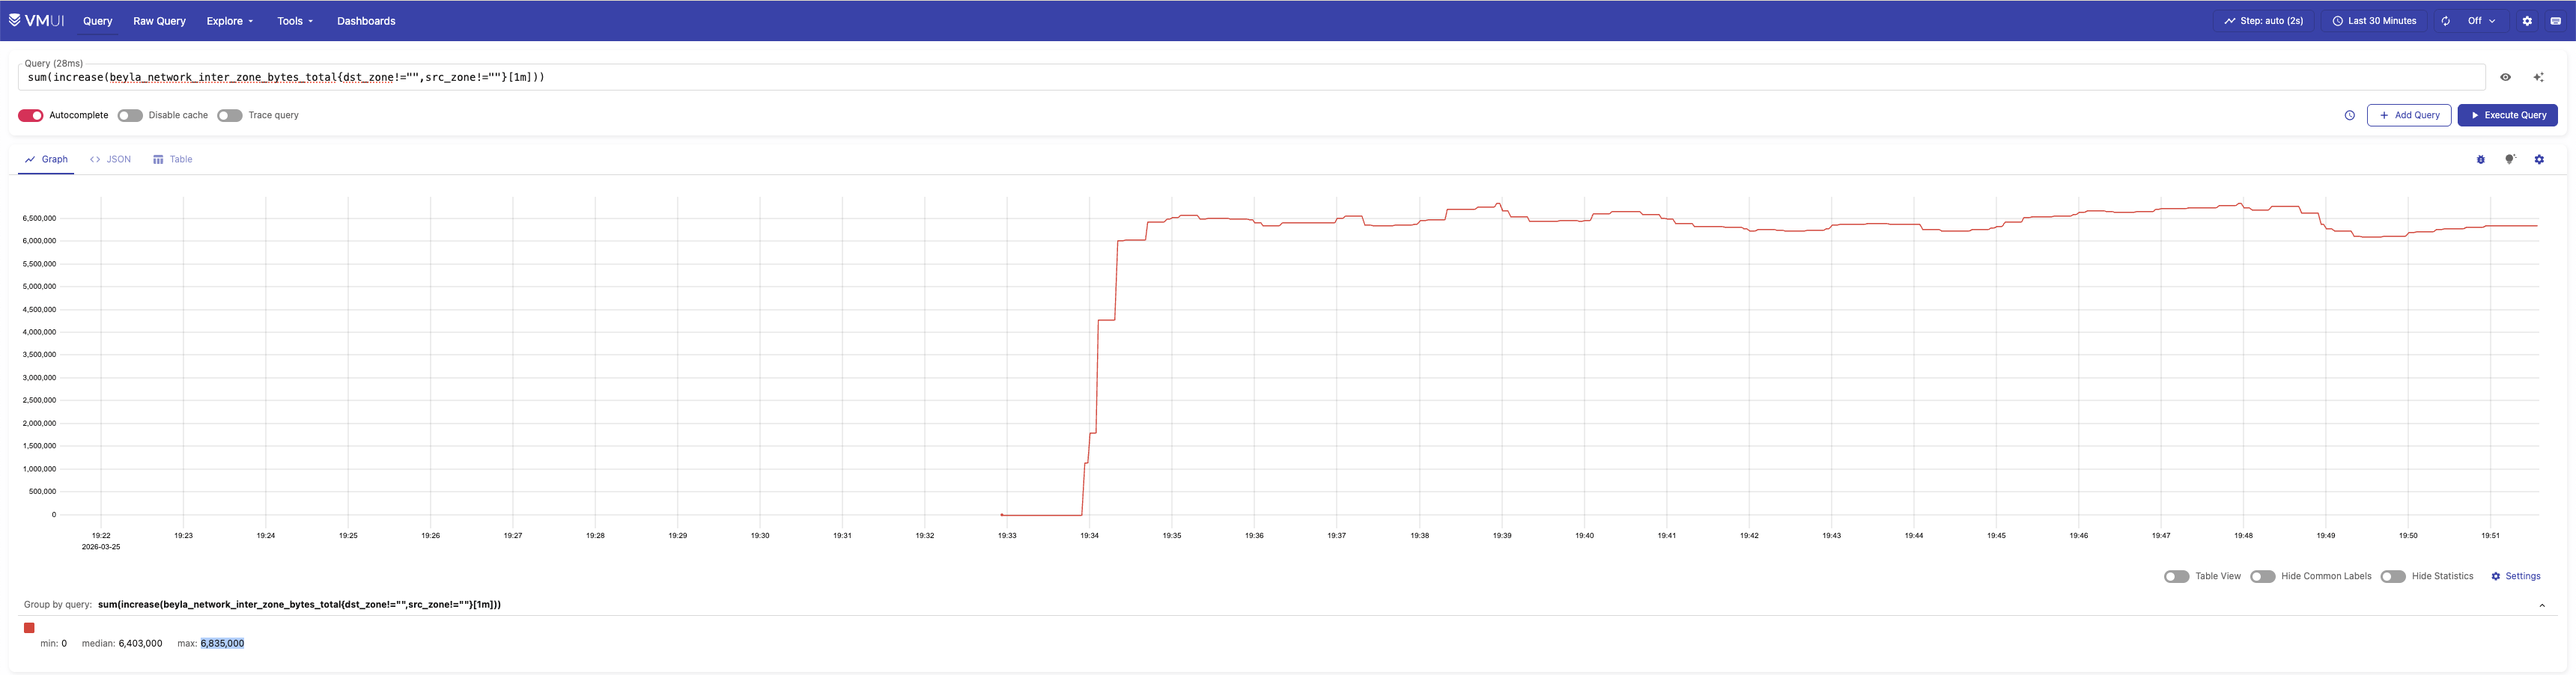
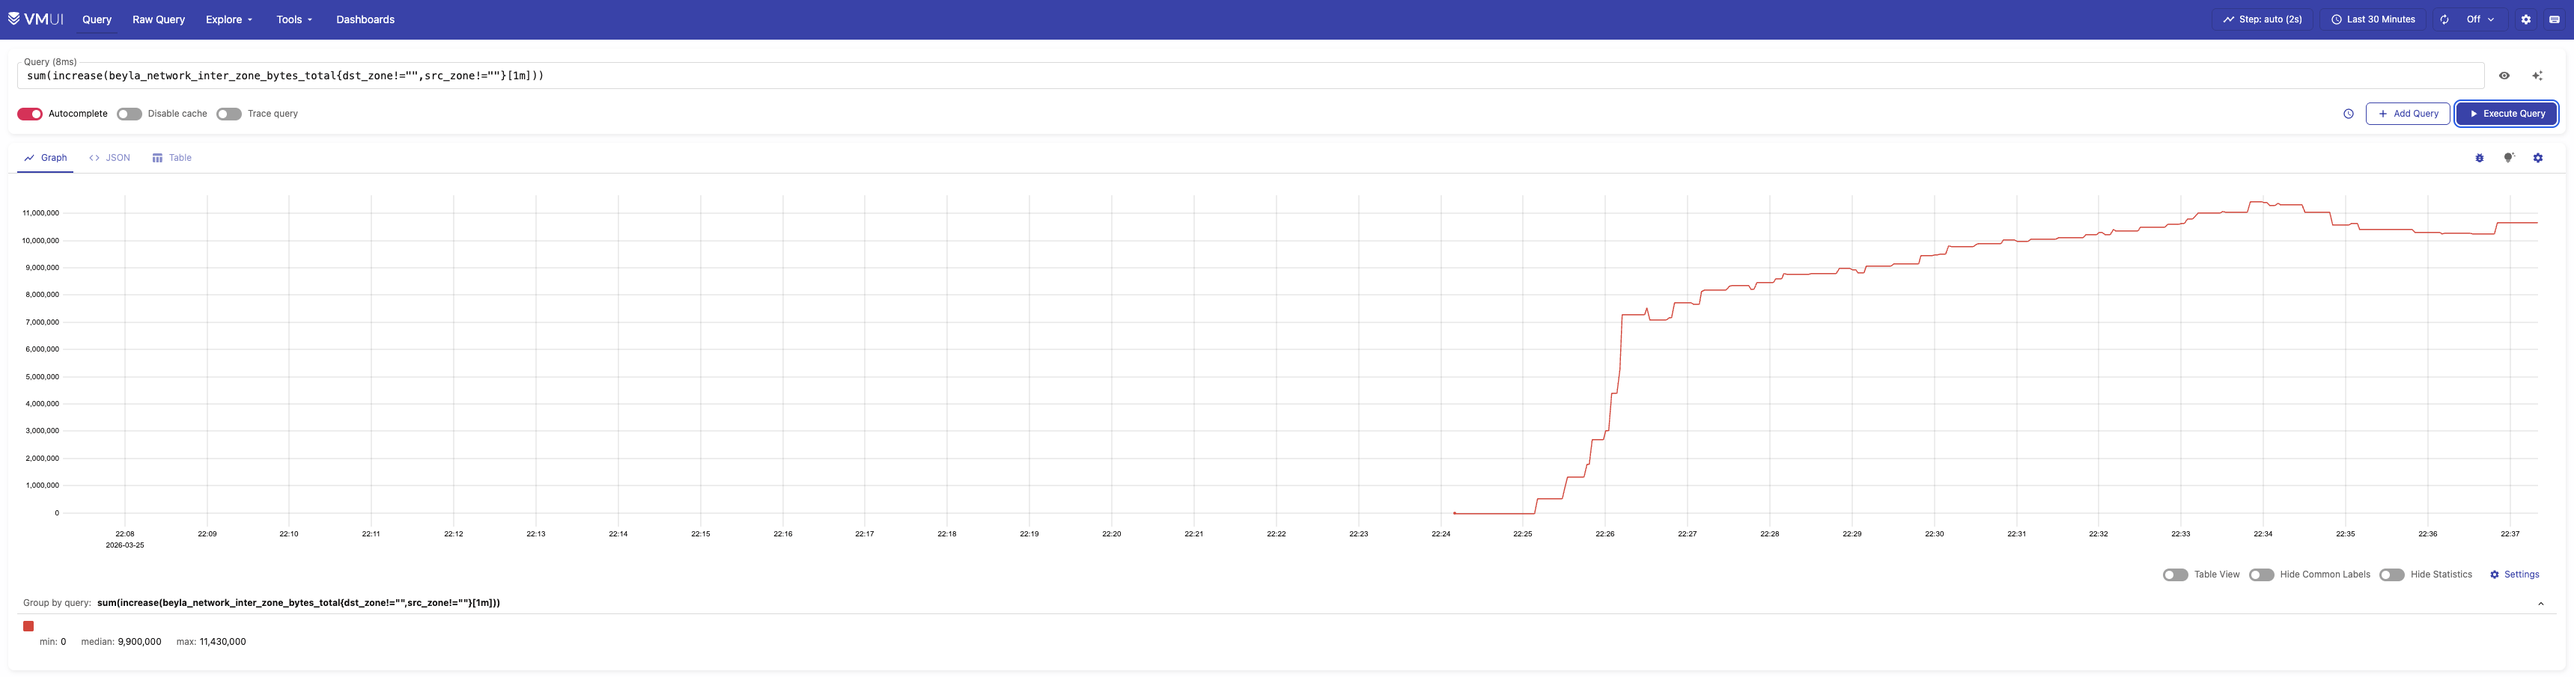
docs: update cross-AZ traffic measurements in README and adjust reduction percentage

diff --git a/README.md b/README.md
@@ -187,10 +187,10 @@ Run this query before and after deploying an AZ-aware platform to measure the tr
 
 | Platform                        | Cross-AZ bytes/min |
 |---------------------------------|--------------------|
-| `victoria-metrics-baseline`     | ~30,100,000        |
-| `victoria-metrics-cluster-mode` | ~6,835,000         |
+| `victoria-metrics-baseline`     | ~37,480,000        |
+| `victoria-metrics-cluster-mode` | ~9,900,000         |
 
-**~77% reduction** in cross-AZ traffic from the AZ-aware setup.
+**~74% reduction** in cross-AZ traffic from the AZ-aware setup.
 
 **Baseline** (`victoria-metrics-baseline`) — single unaware stack:
 
